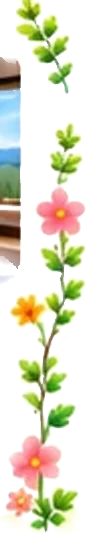
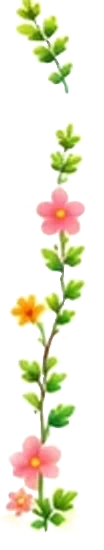
総合トップ machi2: 最初の画面の吹き出し4つを削除し、業種の札の左右のつる画像に焼き込まれていた写真の切れ端を消す
- 吹き出し(お気に入りのお店が見つかる!/今日はどこへ行こう?/ペットと一緒に楽しめるお店も!/このまち、やっぱり好き!)を PC・スマホ・季節ごとの位置指定・動き・押したときの跳ねとともに削除。画像 hero/b1〜b4.webp も削除
- つる v0(グルメの左)と v6(ステイの右)の webp の端に、元の見本の隣のカードの写真(パスタ・湖)の切れ端が不透明で残っていた。つるが揺れるたびにその切れ端が写真の上でずれて、別の絵が混ざって見えていた。切れ端の部分だけ透明にした(つる本体は無変更)

Changed region(s): [[0.0, 0.0927, 0.2019, 0.5255]]

diff --git a/components/portal/hproto/machi2/hero.css b/components/portal/hproto/machi2/hero.css
@@ -26,12 +26,6 @@
 .h2-st-bar { position: absolute; left: 14%; right: 14%; bottom: 3px; height: 2.5px; border-radius: 2px; background: rgba(255, 255, 255, .95); transform-origin: 0 50%; transform: scaleX(0); animation: h2-stbar var(--season-dur, 6s) linear forwards; }
 .h2-hero-stage[data-pause] .h2-st-bar { animation-play-state: paused; }
 @keyframes h2-stbar { to { transform: scaleX(1); } }
-/* 季節ごとに吹き出しを少しずらす(人・犬の顔にかからないように。切り替えの間に滑って動く) */
-.h2-bub { transition: left .9s cubic-bezier(.5, 0, .2, 1), top .9s cubic-bezier(.5, 0, .2, 1); }
-.h2-hero[data-season="summer"] .h2-bub.b1 { --sx: 34; --sy: 2; }
-.h2-hero[data-season="summer"] .h2-bub.b2 { --sx: 62; --sy: -22; }
-.h2-hero[data-season="summer"] .h2-bub.b3 { --sx: -6; --sy: 20; }
-.h2-hero[data-season="summer"] .h2-bub.b4 { --sx: 0; --sy: 8; }
 .h2-clouds { translate: calc(var(--px, 0) * -14 * var(--u)) calc(var(--py, 0) * -8 * var(--u)); position: absolute; left: calc(330 * var(--u)); top: calc(14 * var(--u)); width: calc(520 * var(--u)); height: calc(120 * var(--u)); overflow: hidden; pointer-events: none;
   -webkit-mask-image: linear-gradient(90deg, transparent, #000 14%, #000 86%, transparent); mask-image: linear-gradient(90deg, transparent, #000 14%, #000 86%, transparent); }
 .h2-clouds i { position: absolute; border-radius: 50%; background: radial-gradient(closest-side, rgba(255,255,255,.9), rgba(255,255,255,0)); animation: h2-cloud 34s linear infinite; }
@@ -74,13 +68,6 @@
 @keyframes h2-caret { from, to { opacity: 1; } }
 @keyframes h2-caret-end { 0% { opacity: 1; } 50% { opacity: 0; } 100% { opacity: 0; } }
 
-/* 吹き出し 4 つ(順にぽんと出る・ふわふわ・押すと跳ねる) */
-.h2-bub { position: absolute; padding: 0; z-index: 4; transform: translate(calc(var(--px, 0) * -30 * var(--u)), calc(var(--py, 0) * -16 * var(--u))); transform-origin: var(--ox, 10%) 95%; animation: h2-bubin .7s cubic-bezier(.3,1.7,.5,1) backwards, h2-bob 5.5s ease-in-out infinite; }
-.h2-bub img { width: 100%; height: 100%; display: block; filter: drop-shadow(0 calc(2 * var(--u)) calc(3 * var(--u)) rgba(60,70,60,.18)); }
-.h2-bt { position: absolute; transform: translate(-50%, -50%); text-align: center; color: #333; white-space: nowrap; display: flex; flex-direction: column; align-items: center; font-weight: 400; -webkit-text-stroke: calc(.3 * var(--u)) #333; }
-@keyframes h2-bubin { from { opacity: 0; transform: scale(.3) rotate(-12deg); } to { opacity: 1; transform: none; } }
-.h2-bub.h2-jumping { animation: h2-bubjump .7s cubic-bezier(.3,1.6,.5,1), h2-bob 5.5s ease-in-out infinite; animation-delay: 0s, 0s !important; }
-@keyframes h2-bubjump { 0% { transform: none; } 30% { transform: translateY(calc(-16 * var(--u))) rotate(-7deg) scale(1.12); } 60% { transform: translateY(0) rotate(4deg) scale(.96); } 100% { transform: none; } }
 
 /* 黒板の看板「Good Local Life」: 振り子のようにゆっくり揺れる。乗せると大きく揺れる */
 .h2-board { position: absolute; left: calc(1036 * var(--u)); top: calc(258 * var(--u)); width: calc(64 * var(--u)); height: calc(76 * var(--u)); z-index: 4; transform-origin: 50% 0; animation: h2-swing 4.6s ease-in-out infinite; translate: calc(var(--px, 0) * -24 * var(--u)) calc(var(--py, 0) * -12 * var(--u)); }
@@ -130,11 +117,10 @@
   .h2-hero::after { bottom: 50px; }
   .h2-hero-stage { left: calc(-270 * var(--u)); right: auto; width: calc(1182 * var(--u)); }
   .h2-sbg { height: calc(394 * var(--u) + var(--hd)); }
-  .h2-title, .h2-sub, .h2-search, .h2-bub, .h2-pills { margin-top: var(--hd); }
+  .h2-title, .h2-sub, .h2-search, .h2-pills { margin-top: var(--hd); }
   /* 隠す絵は display:none にせず visibility:hidden(大きさを持ったまま。0×0 の画像にならない) */
-  .h2-fly, .h2-bub.b1, .h2-bub.b2, .h2-bub.b4 { visibility: hidden; pointer-events: none; animation: none; }
+  .h2-fly { visibility: hidden; pointer-events: none; animation: none; }
   .h2-board { display: none; }
-  .h2-bub.b3 { --sx: -100; }
   /* 見える窓(見本の x 270〜910)の中央に文字をそろえる */
   .h2-title, .h2-sub { left: calc(70 * var(--u)); }
   .h2-sub { font-size: calc(17 * var(--u)); }

diff --git a/components/portal/hproto/machi2/Hero.tsx b/components/portal/hproto/machi2/Hero.tsx
@@ -19,13 +19,6 @@ const COLS: Record<string, string[]> = {
 };
 const ROT = [-4, 3, -2, 4, -3, 2, 0, -2];
 
-const BUBBLES = [
-  { k: "b1", x: 184, y: 52, w: 124, h: 65, cx: 63, cy: 28, rot: -9, lines: ["お気に入りの", "お店が見つかる!"], fs: 11.4, d: 0.55, ox: 8 },
-  { k: "b2", x: 190, y: 164, w: 114, h: 66, cx: 56, cy: 31, rot: -7, lines: ["今日は", "どこへ行こう?"], fs: 11.4, d: 0.8, ox: 8 },
-  { k: "b3", x: 858, y: 150, w: 138, h: 62, cx: 84, cy: 30, rot: -7, lines: ["ペットと一緒に", "楽しめるお店も!"], fs: 10.6, d: 1.05, ox: 55 },
-  { k: "b4", x: 930, y: 214, w: 112, h: 52, cx: 52, cy: 28, rot: -6, lines: ["このまち、", "やっぱり好き!"], fs: 11.4, d: 1.3, ox: 10 },
-];
-
 export default function Hero({ mihon, season }: { mihon: boolean; season: Season }) {
   // 最初の季節の絵だけ優先して読む(ほかの季節は表示後にクライアントで順に読む)
   preload(seasonSrc(IMG, season), { as: "image", fetchPriority: "high" });
@@ -47,14 +40,7 @@ export default function Hero({ mihon, season }: { mihon: boolean; season: Season
         <img className="h2-fly h2-bird b2" style={{ left: "calc(470 * var(--u))", top: "calc(74 * var(--u))" }} src={`${H}/bird2.webp`} alt="" width={56} height={53} />
         <img className="h2-fly h2-bird b3" style={{ left: "calc(520 * var(--u))", top: "calc(46 * var(--u))" }} src={`${H}/bird3.webp`} alt="" width={51} height={46} />
         <img className="h2-balloon" style={{ left: "calc(668 * var(--u))", top: "calc(58 * var(--u))" }} src={`${H}/balloon.webp`} alt="" width={64} height={82} />
-        {/* 層 2: 吹き出し・看板 */}
-        {BUBBLES.map((b) => (
-          <button type="button" key={b.k} className={`h2-bub h2-jump ${b.k}`} aria-label={b.lines.join("")}
-            style={{ left: `calc((${b.x} + var(--sx, 0)) * var(--u))`, top: `calc((${b.y} + var(--sy, 0)) * var(--u))`, width: `calc(${b.w} * var(--u))`, height: `calc(${b.h} * var(--u))`, animationDelay: `${b.d}s, ${b.d + 0.8}s`, ["--ox" as string]: `${b.ox}%` }}>
-            <img src={`${H}/${b.k}.webp`} alt="" width={Math.round(b.w * 1.283)} height={Math.round(b.h * 1.283)} />
-            <span className="h2-bt h2-kure" style={{ left: `calc(${b.cx} * var(--u))`, top: `calc(${b.cy} * var(--u))`, fontSize: `calc(${b.fs} * var(--u))`, lineHeight: `calc(${b.fs * 1.6} * var(--u))`, rotate: `${b.rot}deg` }}>{b.lines.map((l) => <span key={l}>{l}</span>)}</span>
-          </button>
-        ))}
+        {/* 層 2: 看板 */}
         <div className="h2-board" aria-label="Good Local Life"><span className="h2-board-in h2-script">Good<br />Local<br />Life</span></div>
         {/* 層 3: 文字・検索 */}
         <h1 className="h2-title">

diff --git a/components/portal/hproto/machi2/Fx.tsx b/components/portal/hproto/machi2/Fx.tsx
@@ -12,15 +12,8 @@ export default function Fx() {
       el.classList.remove("h2-pop"); void el.offsetWidth; el.classList.add("h2-pop");
       window.setTimeout(() => el.classList.remove("h2-pop"), 600);
     };
-    const jump = (e: Event) => {
-      const el = (e.target as Element | null)?.closest?.(".h2-jump") as HTMLElement | null;
-      if (!el) return;
-      el.classList.remove("h2-jumping"); void el.offsetWidth; el.classList.add("h2-jumping");
-      window.setTimeout(() => el.classList.remove("h2-jumping"), 760);
-    };
     root.addEventListener("pointerdown", down, { passive: true });
-    root.addEventListener("click", jump);
-    return () => { root.removeEventListener("pointerdown", down); root.removeEventListener("click", jump); };
+    return () => root.removeEventListener("pointerdown", down);
   }, []);
   return null;
 }

diff --git a/components/portal/hproto/machi2/base.css b/components/portal/hproto/machi2/base.css
@@ -37,7 +37,6 @@ body:has(.h2-root), body:has(.h2-root) main { cursor: auto; background: #fff; pa
 @supports (animation-timeline: view()) {
   .h2-root [data-rv] { animation: h2-rv linear forwards; animation-timeline: view(); animation-range: entry 0% entry 55%; }
 }
-@keyframes h2-bob { 0%, 100% { translate: 0 0; } 50% { translate: 0 -5px; } }
 .h2-hand { font-family: var(--h2-yusei), var(--h2-maru), sans-serif; }
 .h2-kure { font-family: var(--h2-kure), var(--h2-yusei), var(--h2-maru), sans-serif; }
 .h2-mplus { font-family: var(--h2-mplus), var(--h2-maru), sans-serif; }
